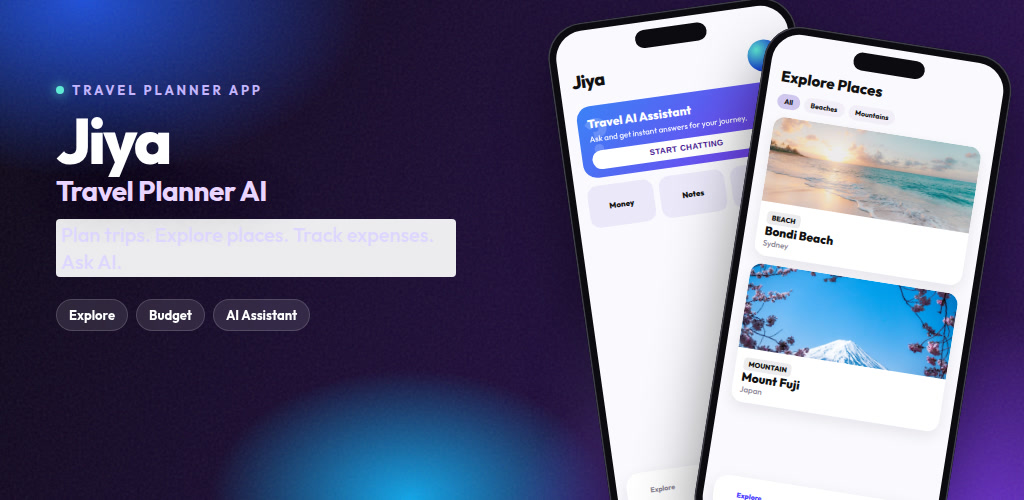
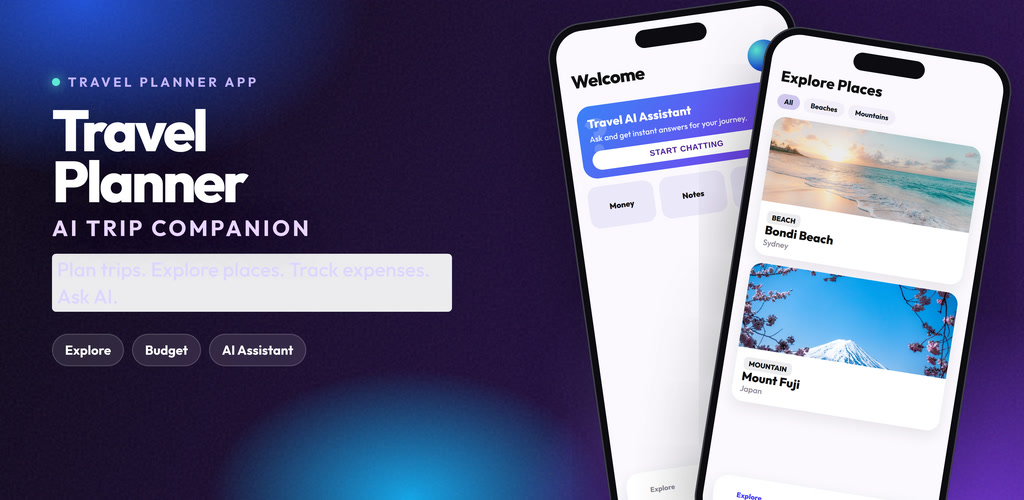
Refresh Play feature graphic: drop JIYA, ship 4K master
Banner title is Travel Planner only. Adds a 4096x2000 ultra HD PNG and a sharp 1024x500 Play Console export.

diff --git a/play-store/feature-graphic.html b/play-store/feature-graphic.html
@@ -2,7 +2,7 @@
 <html lang="en">
 <head>
   <meta charset="utf-8">
-  <title>Jiya Feature Graphic 1024x500</title>
+  <title>Travel Planner Feature Graphic 4K</title>
   <link href="https://fonts.googleapis.com/css2?family=Outfit:wght@500;600;700;800&display=swap" rel="stylesheet">
   <style>
     * { box-sizing: border-box; margin: 0; padding: 0; }
@@ -30,9 +30,9 @@
     }
     .copy {
       position: absolute;
-      left: 56px;
-      top: 78px;
-      width: 430px;
+      left: 52px;
+      top: 70px;
+      width: 460px;
       z-index: 4;
     }
     .kicker {
@@ -52,20 +52,21 @@
       box-shadow: 0 0 12px #5eead4;
     }
     h1 {
-      font-size: 64px;
+      font-size: 58px;
       font-weight: 800;
-      letter-spacing: -.045em;
-      line-height: .9;
+      letter-spacing: -.05em;
+      line-height: .88;
       color: #fff;
       text-shadow: 0 10px 40px rgba(0,0,0,.35);
     }
     h1 span {
       display: block;
-      font-size: 28px;
+      font-size: 22px;
       font-weight: 650;
-      letter-spacing: -.02em;
+      letter-spacing: .12em;
+      text-transform: uppercase;
       color: #e9d5ff;
-      margin-top: 8px;
+      margin-top: 12px;
     }
     p.tag {
       margin-top: 16px;
@@ -178,7 +179,7 @@
     <div class="noise"></div>
     <div class="copy">
       <div class="kicker"><span class="dot"></span> Travel planner app</div>
-      <h1>Jiya<span>Travel Planner AI</span></h1>
+      <h1>Travel<br>Planner<span>AI trip companion</span></h1>
       <p class="tag">Plan trips. Explore places. Track expenses. Ask AI.</p>
       <div class="pills">
         <span class="pill">Explore</span>
@@ -193,7 +194,7 @@
           <div class="island"></div>
           <div class="app">
             <div class="row">
-              <div class="name">Jiya</div>
+              <div class="name">Welcome</div>
               <div class="logo"></div>
             </div>
             <div class="ai">

diff --git a/play-store/PLAY-LISTING.md b/play-store/PLAY-LISTING.md
@@ -4,11 +4,17 @@ Copy-paste into Play Console → Grow users → Store presence → Main store li
 
 ## Feature graphic (required) — 1024 × 500
 
-Upload `play-store/feature-graphic.png` (PNG, 1024×500, under 15 MB).
+Play Console only accepts **1024 × 500**. Upload this file:
 
-Play Console → Store listing → Graphic assets → **Feature graphic** → Add assets.
+- `play-store/feature-graphic.png` (1024×500, sharpened from 4K)
 
-Do not add extra text, Play badges, or ratings on this image. Google crops the edges on some devices, so the title and phones already sit inside the safe area.
+Ultra HD 4K master (keep for ads/other use):
+
+- `play-store/feature-graphic-4k.png` — **4096 × 2000**
+
+Play Console → Store listing → Graphic assets → **Feature graphic** → Add assets → `feature-graphic.png`
+
+The banner title is **Travel Planner** (JIYA removed).
 
 Limits: **title 30**, **short description 80**, **full description 4000**.
 
